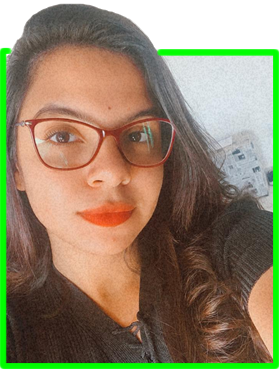
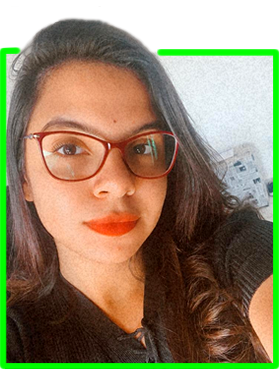
Mudei a página sobre nós, pscanálise e João e Maria

diff --git a/src/cont_Joao_e_Maria.php b/src/cont_Joao_e_Maria.php
@@ -13,7 +13,7 @@
 
     <div style="width:100%;height:auto;">
 
-    <img src="<?php echo $conto.'img (44).jpg' ?>" class="" style="width:100%;height:430px;object-fit: cover;object-position: center 32%;"> 
+    <img src="<?php echo $conto.'img (41).jpg' ?>" class="" style="width:100%;height:430px;object-fit: cover;object-position: center 42%;"> 
 
     <div class="container-fluid mt-4  wt-geral  position-relative" style="min-height:81vh;">
 
@@ -32,7 +32,7 @@
         <p class="text-justify mb-4 font-s-11 recuo"><span class="font-london font-s-30 mr-2 px-3 border switch-cap text-white muda" style="line-height: 1;">A</span>i daquele que pensa em encontrar uma governanta para seus filhos dando-lhes uma madrasta! Ele apenas traz para sua casa a causa de sua ruína. Nunca houve uma madrasta que olhasse com benevolência para os filhos de outra pessoa; ou se por acaso alguém assim fosse encontrado, ela seria considerada um milagre e seria chamada de corvo branco. Mas, além de todos aqueles de quem você pode ter ouvido, vou agora lhe contar sobre outra, para ser adicionada à lista das madrastas sem coração, que você considerará bem merecedoras do castigo que ela comprou para si com dinheiro disponível.</p>
         <div class="row mb-4">
 
-            <div class="col-12 col-md-4" ><div class="bg-img imgc-size" style="background-image: url(img/cont/img.jpg);width:100%;height:100%;"></div></div>
+            <div class="col-12 col-md-4" ><div class="bg-img imgc-size" style="background-image: url(img/cont/img20.jpg);width:100%;height:100%;"></div></div>
             <div class="col-12 col-md-8 text-justify font-s-11"> 
               <p class="mb-4 recuo">Era uma vez um bom homem chamado Jannuccio, que tinha dois filhos, Nennillo e Nennella, a quem amava tanto quanto sua própria vida. Mas tendo a Morte, com a lima fila do Tempo, cortado as grades da prisão da alma de sua esposa, ele tomou para si uma mulher cruel, que mal havia posto os pés em sua casa, ela começou a montar no cavalo alto, dizendo:</p> 
               <p class="mb-4 recuo"> "Vim aqui, de fato, para cuidar dos filhos de outras pessoas? Um belo trabalho que empreendi, para ter todos esses problemas e ser incomodado para sempre por um casal de pirralhos gritando! Quem dera eu tivesse quebrado o pescoço antes de vir a este lugar, ter comida ruim, bebida pior e não dormir à noite! Aqui está uma vida para levar! Certamente, vim como uma esposa, não como uma serva; mas devo encontrar um meio de me livrar dessas criaturas, ou me custou minha vida: melhor corar uma vez do que ficar pálido cem vezes; portanto, acabei com eles, pois estou decidido a mandá-los embora ou a sair de casa para sempre."</p>
@@ -44,7 +44,7 @@
 
             
           <div class="col-12 col-md-8 text-justify font-s-11"> <p class="mb-4 recuo">O pobre marido, que tinha alguma afeição por esta mulher, disse-lhe: "Calma, mulher! Não te zangues, porque o açúcar é caro; e amanhã de manhã, antes que o galo cante, vou tirar este aborrecimento para agradar vocês." <br> Então, na manhã seguinte, antes que a Aurora pendurasse a colcha vermelha na janela do Leste para arejá-la, Jannuccio pegou as crianças, uma por cada mão, e com um bom cesto cheio de coisas para comer no braço, conduziu-as para um bosque, onde um exército de choupos e faias mantinham as sombras sitiadas.<br> Então Jannuccio disse: "Meus filhinhos, fiquem aqui neste bosque, e comam e bebam alegremente; mas se vocês quiserem alguma coisa, sigam esta linha de cinzas que eu tenho espalhado enquanto avançávamos; esta será uma pista para guiá-los sair do labirinto e levá-lo direto para casa."</p> </div>
-          <div class="col-12 col-md-4" ><div class="bg-img imgc-size" style="background-image: url(img/cont/img1.png);width:100%;height:100%;"></div></div>
+          <div class="col-12 col-md-4" ><div class="bg-img imgc-size" style="background-image: url(img/cont/img43.jpg);width:100%;height:100%;"></div></div>
             
 
         </div>
@@ -61,12 +61,49 @@
             </div>
         </div>
 
-        <p class="text-justify mb-4 font-s-11 recuo">texto</p>
-		<p class="text-justify mb-4 font-s-11 recuo">texto</p>
-		<p class="text-justify mb-4 font-s-11 recuo">texto</p>
+        <p class="text-justify mb-4 font-s-11 recuo">Mas como o Céu sempre estende seu braço sobre os inocentes, veio por acaso um príncipe para caçar naquela floresta. Então Nennillo, ouvindo o latido dos cães, ficou tão assustado que se esgueirou até uma árvore oca; e Nennella saiu correndo a toda velocidade, e correu até sair da floresta e se encontrar na praia. Aconteceu que alguns piratas, que haviam pousado ali para buscar combustível, viram Nennella e a carregaram; e seu capitão a levou para casa com ele, onde ele e sua esposa, tendo acabado de perder uma menina, a tomaram como sua filha.</p>
+		<p class="text-justify mb-4 font-s-11 recuo">Nesse ínterim, Nennillo, que se escondera na árvore, foi cercado pelos cães, que latiram tão furiosamente que o príncipe mandou descobrir a causa; e quando ele descobriu o lindo menino, que era tão jovem que ele não sabia quem eram seu pai e sua mãe, ele ordenou a um dos caçadores que o colocasse em sua sela e o levasse ao palácio real. Então, ele o educou com muito cuidado e instruiu-o em várias artes e, entre outras, ensinou-o a de escultor; de modo que, antes que se passassem três ou quatro anos, Nennillo se tornou tão especialista em sua arte que era capaz de esculpir um fio de cabelo.</p>
+		<p class="text-justify mb-4 font-s-11 recuo">Mais ou menos nessa época, foi descoberto que o capitão do navio que levara Nennella para sua casa era um ladrão do mar, e o povo queria prendê-lo; mas, recebendo notificação oportuna dos escrivães nos tribunais, que eram seus amigos e a quem ele pagava, ele fugiu com toda a família. Foi decretado, entretanto, talvez pelo julgamento do Céu, que aquele que cometeu seus crimes no mar, no mar, deveria sofrer a punição deles; por ter embarcado em um pequeno barco, mal estava em mar aberto, veio uma tal tempestade de vento e tumulto das ondas, que o barco se virou e todos se afogaram, todos exceto Nennella, que não tinha participado os roubos do corsário, como sua esposa e filhos, escaparam do perigo; para então um grande peixe encantado.</p>
         
+		  		  
+		  
+
+		<div class="row mb-4">
+
+          <div class="col-12 col-md-8 text-justify font-s-11"> 
+		  <p class="mb-4 recuo">A menina agora pensava que seus dias certamente haviam chegado ao fim, quando de repente ela encontrou algo que a surpreendeu dentro dos peixes: belos campos e belos jardins, e uma esplêndida mansão, com tudo que seu coração poderia desejar, na qual ela viveu como uma princesa. Em seguida, ela foi carregada rapidamente pelo peixe até uma rocha, onde por acaso o príncipe tinha vindo para escapar do calor escaldante do verão e desfrutar da brisa fresca do mar. E enquanto um grande banquete se preparava, Nennillo havia pisado em uma sacada do palácio na rocha para afiar algumas facas, orgulhando-se muito de ter conquistado honra em seu cargo. Quando Nennella o viu pela garganta do peixe, ela gritou alto: <br> <br> - Irmão, irmão, sua tarefa está cumprida, as mesas estão dispostas cada uma; <br> - Mas aqui no peixe devo sentar-me e suspirar, <br> - Oh irmão, sem você eu logo morrerei.</p> 
+		  <p class="mb-4 recuo">Nennillo a princípio não deu atenção à voz, mas o príncipe, que estava em outra sacada e também a ouvira, virou-se na direção de onde vinha o som e viu o peixe. E quando ele ouviu novamente as mesmas palavras, ele ficou fora de si de espanto, e ordenou que vários servos tentassem de alguma forma pegar o peixe e puxá-lo para a terra.</p>
+		  
+		  </div>
+          <div class="col-12 col-md-4" ><div class="bg-img imgc-size" style="background-image: url(img/cont/img1.png);width:100%;height:100%;"></div></div>
+            
+        </div>
+				
 		
-		<p class="text-justify mb-5 font-s-11 recuo">Depois de haver destinado uma grande renda ao cozinheiro, e de havê-lo nomeado camareiro-mor do palácio, o rei se casou com Talia, que viveu feliz e contente para sempre com seu marido e filhos, depois de ter experimentado que até mesmo dormindo é possível ser favorecida com a sorte.</p>
+		
+		<p class="text-justify mb-4 font-s-11 recuo"> Por fim, ouvindo as palavras "Irmão, irmão!" repetido continuamente, ele perguntou a todos os seus servos, um por um, se algum deles havia perdido uma irmã. E Nennillo respondeu que se lembrava, como um sonho, de ter tido uma irmã quando o príncipe o encontrou na floresta, mas que nunca mais tinha ouvido falar dela. Então o príncipe disse-lhe que se aproximasse do peixe e visse o que estava acontecendo, pois talvez essa aventura pudesse interessá-lo. </p>
+		
+		<p class="text-justify mb-4 font-s-11 recuo"> Assim que Nennillo se aproximou do peixe, ele ergueu a cabeça sobre a rocha e, abrindo a garganta com seis palmos de largura, Nennella saiu, tão bela que parecia uma ninfa em algum interlúdio, saiu daquele animal no encantamento de um mágico. E quando o príncipe lhe perguntou como tudo havia acontecido, ela lhe contou uma parte de sua triste história e o ódio de sua madrasta; mas não sendo capaz de lembrar o nome de seu pai nem de sua casa, o príncipe fez uma proclamação ser emitida, ordenando que quem tivesse perdido dois filhos, chamados Nennillo e Nennella, em um bosque, deveria vir ao palácio real, e ele iria receber notícias alegres deles. </p>
+		
+		<p class="text-justify mb-4 font-s-11 recuo"> Jannuccio, que durante todo esse tempo passara uma vida triste e desconsolada, acreditando que seus filhos haviam sido devorados por lobos, apressou-se agora com a maior alegria em procurar o príncipe e lhe disse que havia perdido os filhos. E quando ele contou a história, como ele foi compelido a levá-los para a floresta, o príncipe deu-lhe uma boa repreensão, chamando-o de estúpido por permitir que uma mulher colocasse o calcanhar em seu pescoço até que ele fosse levado para mandar embora duas joias como seus filhos. Mas depois de ter quebrado a cabeça de Jannuccio com essas palavras, aplicou nela o emplastro da consolação, mostrando-lhe os filhos, que o pai abraçou e beijou por meia hora sem se dar por satisfeito. </p>
+		
+		
+			
+		
+		 <div class="row mb-4">
+
+            <div class="col-12 col-md-4" ><div class="bg-img imgc-size" style="background-image: url(img/cont/img2.jpg);width:100%;height:100%;background-position: center 70%;"></div></div>
+            <div class="col-12 col-md-8 text-justify font-s-11"> 
+              <p class="mb-4 recuo"> Então o príncipe o fez tirar o paletó e o vestiu como um senhor; e mandando chamar a mulher de Jannuccio, mostrou-lhe aquelas duas pepitas de ouro, perguntou-lhe o que merecia aquela pessoa que lhes fizesse mal e até colocasse em perigo a vida deles.</p>
+              <p class="mb-4 recuo">E ela respondeu: "De minha parte, eu a colocaria em um barril fechado e a faria rolar montanha abaixo." <br> "Assim deve ser feito!" disse o príncipe. "A cabra deu uma cabeçada em si mesma. Rápido agora! Você passou a sentença, e deve sofrer, por ter gerado tamanha malícia a esses lindos enteados."</p>
+		  
+		   </div>
+        </div>
+		
+		
+		
+		
+		<p class="text-justify mb-5 font-s-11 recuo">Então ele deu ordens para que a sentença fosse executada imediatamente. Então, escolhendo um senhor muito rico entre seus vassalos, deu-lhe Nennella por esposa, e a filha de outro grande senhor para Nennillo; permitindo-lhes viver o suficiente, com seu pai, de modo que eles não desejassem nada no mundo. Mas a madrasta, encerrada no barril e excluída da vida, continuou a chorar através do buraco enquanto teve fôlego: <br><br> - Àquele que o mal busca, o mal cairá; <br> - Chega uma hora que recompensa a todos.</p>
 
         <center><h1 class="font-antic mt-3 mb-2">Fim</h1></center>
         

diff --git a/src/cont_Psicanalise.php b/src/cont_Psicanalise.php
@@ -16,7 +16,7 @@
     <div class="row position-absolute mt-5" style="width:100%;">
       <div class="col-1 col-md-3"></div>
       <div class="col-10 col-md-6 mt-5">
-        <center><h1 class="mt-5 text-center font-antic font-s-35 text-white">A psicanalise por trás dos contos de fadas</h1></center>
+        <center><h1 class="mt-5 text-center font-london font-s-40 text-white">A psicanálise por trás dos contos de fadas</h1></center>
       </div>
       <div class="col-1 col-md-3"></div>
     </div>
@@ -40,7 +40,7 @@
 
             <br>
         
-            <p class="mt-5 mb-4 text-justify font-s-13 recuo"> <span id="introducao" class="dest-purple muda">Os contos de fadas</span> possuem uma natureza ética e existencial, em muitas de suas histórias são retratadps heróis e heroínas, e durante essas narrativas, é representado, por meio desses personagens, a possível realização de um ideal ou sonho. Esses contos têm grande impacto na vida da criança, visto que transmitem entretenimento, despertam a imaginação e a curiosidade de seus ouvintes, leitores e espectadores, além de ajudálos a desenvolver seu intelecto e tornar claras suas emoções, possibilitando que aquele que tenha algum tipo de contato com os contos de fadas reconheça suas dificuldades e desenvolva soluções para os problemas que o aflinge.</p> 
+            <p class="mt-5 mb-4 text-justify font-s-13 recuo"><span id="introducao" class="dest-purple muda" style="font-family: Brush Script MT; font-size:1.5em;">Os contos de fadas</span> possuem uma natureza ética e existencial, em muitas de suas histórias são retratados heróis e heroínas, e durante essas narrativas, é representado, por meio desses personagens, a possível realização de um ideal ou sonho. Esses contos têm grande impacto na vida da criança, visto que transmitem entretenimento, despertam a imaginação e a curiosidade de seus ouvintes, leitores e espectadores, além de ajudálos a desenvolver seu intelecto e tornar claras suas emoções, possibilitando que aquele que tenha algum tipo de contato com os contos de fadas reconheça suas dificuldades e desenvolva soluções para os problemas que o aflinge.</p> 
         
         </div>
 
@@ -100,7 +100,7 @@
 
     <div class="container-fluid mt-0  wt-geral  position-relative" >
 
-            <center><h1 id="social" class="mt-1 mb-5 dest-purple muda font-antic">Os problemas sociais</h1></center>
+            <center><h1 id="social" class="mt-1 mb-5 dest-purple muda font-antic"><br>Os problemas sociais</h1></center>
         
             
 
@@ -113,13 +113,13 @@
 
               <p class="mt-1 mb-4 text-justify font-s-13 recuo"> Ressalva-se a importância dos contos para entender os problemas sociais existentes em nossa sociedade desde a antiguedade. Ao analisar os contos de fadas folclóricos nota-se elementos mais perversos do que os apresentados nas versões de Walter Elias Disney.</p> 
 
-              <p class="mt-1 mb-4 text-justify font-s-13 recuo"> Neles são abordados temas como o abando, o estupro, o incesto, o canibalismo, a antropofagia, a mutilação e a <span style="color:#f4b12f;">miséria</span>.</p>
+              <p class="mt-1 mb-4 text-justify font-s-13 recuo"> Neles são abordados temas como o abandono, o estupro, o incesto, o canibalismo, a antropofagia, a mutilação e a <span style="color:#f4b12f;">miséria</span>.</p>
 
               </div>
 
             </div>
 
-            <p class="mt-1 mb-4 text-justify font-s-13 recuo">A introdução a estes temas desde cedo ajuda a criança a questionar o porquê da existência desses problemas, desenvolvendo um senso crítico fundamental para as fases seguintes de sua vida, auxiliando na criação de soluções para problemas futuros. Isso ocorre devido aos contos de fada ensinarem que quaisquer que sejam as dificuldades da vida, elas devem ser enfrentadas para serem derrotadas, justamente por fazerem parte da essência humana.</p>
+            <p class="mt-1 mb-4 text-justify font-s-13 recuo">A introdução a estes temas desde cedo ajuda a criança a questionar o porquê da existência desses problemas, desenvolvendo um senso crítico fundamental para as fases seguintes de sua vida, auxiliando na criação de soluções para problemas futuros. Isso ocorre devido aos contos de fada ensinarem que quaisquer que sejam as dificuldades da vida, elas devem ser enfrentadas para serem derrotadas, justamente por fazerem parte da essência humana.</p><br>
         
         </div>
 
@@ -137,12 +137,12 @@
       <br>
       </div>
 
-      <div class="bg-img" style="width:100%;height:100%;background-image:url(img/bg/bgwolf.png);">
+      <div id="MoralEtica" class="bg-img" style="width:100%;height:100%;background-image:url(img/bg/bgwolf.png);">
       <br><br><br><br>
       
         <div class="container-fluid mt-5 mb-5  wt-geral ">
 
-        <center><h1 id="MoralEtica" class="mt-1 mb-5 muda font-antic" style="color:#CFBFFF">Moral e Ética</h1></center>
+        <center><h1 class="mt-1 mb-5 muda font-antic" style="color:#CFBFFF">Moral e Ética</h1></center>
 
         <p class="mt-1 mb-4 text-justify font-s-16 recuo text-white"> Outra função importante é a construção da moral e ética por meio dos contos de fada. De forma subentendida suas histórias passam as regras da sociedade; basta analisar os elementos presentes em sua narrativa e como eles simplificavam a realidade para que a mensagem fosse claramente entendida pelas crianças</p>
 
@@ -153,7 +153,7 @@
 
       <div class="container-fluid mt-0 mb-5  wt-geral  position-relative" >
 
-            <center><h1 id="Mudanca" class="mt-5 mb-5 dest-purple muda font-antic">Mudanças</h1></center>
+            <center><h1 id="Mudanca" class="mt-5 mb-5 dest-purple muda font-antic"><br>Mudanças</h1></center>
 
             <p class="mt-1 mb-4 text-justify font-s-13 recuo"> Ao decorrer do tempo foram tirados diversos elementos que avaliaram inadequados para as crianças(antigamente o público-alvo desses contos eram os adultos), primeiro tiraram qualquer conteúdo possivelmente sexual, e por fim, elementos que trouxessem violência e tabus.</p>
             <p class="mt-1 mb-4 text-justify font-s-13 recuo"> Como lembra Bettelheim (1980, p. 32), atualmente as crianças conhecem os contos de fadas de forma amesquinhas e simplificadas, que amortecem os significados e roubam-nas de todo o significado mais profundo.</p>
@@ -171,7 +171,7 @@
         <div class="container-fluid mt-5 mb-5  wt-geral ">
         
 
-        <center><h1 class="mt-5 mb-5 dest-purple muda font-antic">Sistema mentais</h1></center>
+        <center><h1 class="mt-5 mb-5 dest-purple muda font-antic"><br>Sistema mentais</h1></center>
 
         <p class="mt-1 mb-4 text-justify font-s-13 recuo">Aplicando o modelo psicanalítico da formação da personalidade humana (Teoria Topográfica de Freud), os contos de fadas transmitem importantes mensagens para os três sistemas mentais (A mente consciente, a pré-inconsciente e a inconsciente), seja em qualquer nível que esteja funcionando naquele momento.</p>
         <p class="mt-1 mb-4 text-justify font-s-13 recuo">Essas histórias abordam problemas humanos universais, em especial os que preocupam as crianças. Elas falam ao ego que desabrocha e encorajam o seu desenvolvimento, ao mesmo tempo que aliviam as pressões pré-conscientes e inconscientes. Aos desenrolar das histórias, é dado crédito consciente e corpo às pressões do id, mostrando caminhos para satisfazê-las que estão de acordo com as exigências do ego e do superego.</p>
@@ -183,7 +183,7 @@
       <div class="container-fluid mt-5 mb-5  wt-geral ">
         
 
-        <center><h1 id="leitura" class="mt-5 mb-5 dest-purple muda font-antic">A importância da leitura</h1></center>
+        <center><h1 id="leitura" class="mt-5 mb-5 dest-purple muda font-antic"><br>A importância da leitura</h1></center>
 
         <p class="mt-1 mb-4 text-justify font-s-13 recuo">A leitura dos contos de fada é importante para o desenvolvimento emocional e psicológico da criança, visto que ensinam a enfrentar suas dificuldades, estimulando-as a não se intimidarem, e passam a mensagem que nenhum problema é impossível. Seus enredos falam de sentimentos comuns a todos nós, como: ódio, inveja, ciúme, ambição, rejeição e frustação, que só podem ser compreendidos e vivenciados pela criança através das emoções e da fantasia.</p>
         <p class="mt-1 mb-4 text-justify font-s-13 recuo"> Por meio dela é possível que a criança aprenda a lidar com essas sensações. Além de que, o contato com os livros auxilia no desenvolvimento cognitivo e intelectual das crianças. Contribuindo também para melhorias no vocabulário, na fala, no rendimento escolar, na interpretação e no conhecimento.</p>
@@ -195,7 +195,7 @@
         <div class="container-fluid mt-5 mb-5  wt-geral ">
         
 
-        <center><h1 id="recomendacao" class="mt-5 mb-1 dest-purple muda font-antic">Recomendações</h1></center>
+        <center><h1 id="recomendacao" class="mt-5 mb-1 dest-purple muda font-antic"><br>Recomendações</h1></center>
 
         <div class="row">
           <div class="col-md-3"></div>
